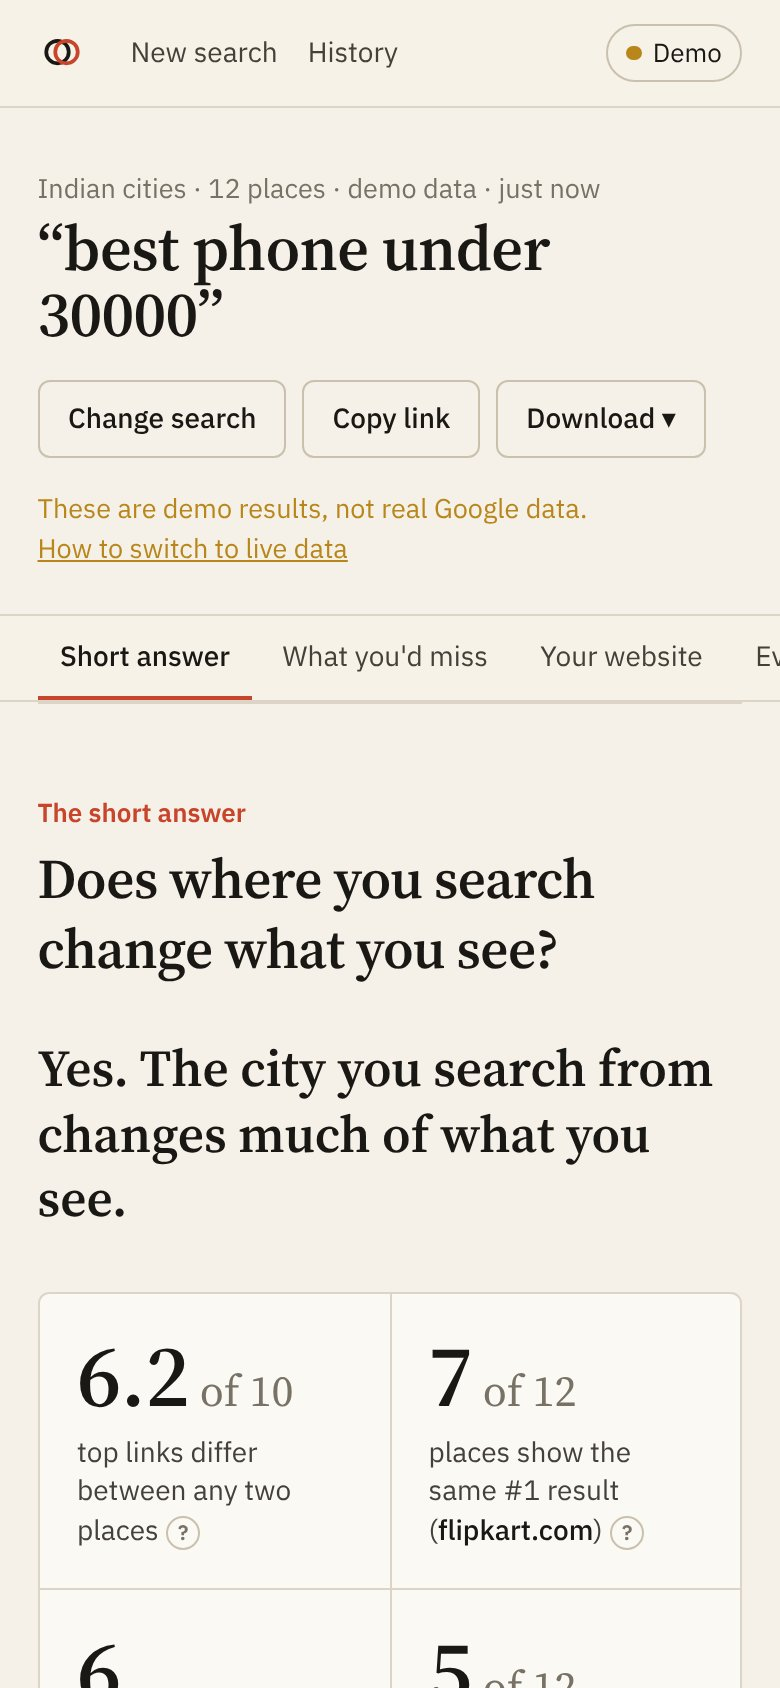
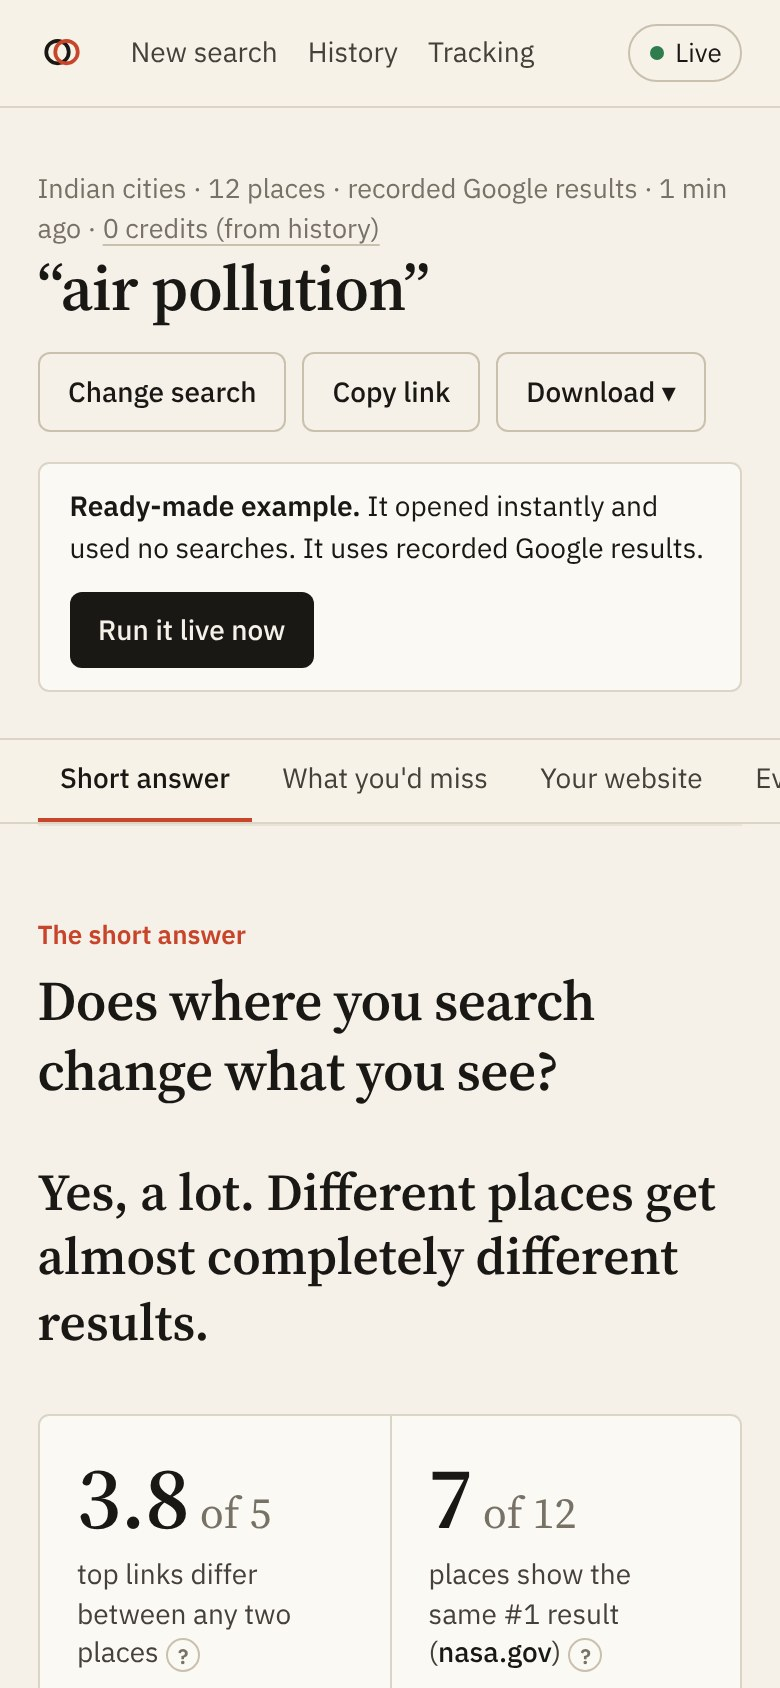
Retake README screenshots on real SerpApi data
Every screenshot except Tracking now shows real Google results: the
'air pollution' scan across 12 cities (searched live for the progress
shot), and 'is india safe for tourists' from 10 countries for the AI
answer diff. README numbers, the screenshot note, the record command and
the new PARALLAX_TIMEOUT setting are updated to match.

diff --git a/README.md b/README.md
@@ -34,7 +34,7 @@ Filter bubbles are usually discussed for social feeds. **Search is the bigger an
 ## What you get from one search
 
 **1. The short answer.** One sentence in plain English, followed by four numbers anyone can read:
-*“6.2 of 10 top links differ between any two places”*, *“7 of 12 places show the same #1 result”*, *“6 groups of places see similar pages”*, *“5 of 12 places got Google's AI answer”*. Every number has a **?** that explains it. A short written summary, generated directly from the numbers, ends with a concrete *What to do*.
+*“3.8 of 5 top links differ between any two places”*, *“7 of 12 places show the same #1 result”*, *“3 groups of places see similar pages”*, *“12 of 12 places got Google's AI answer”*. Every number has a **?** that explains it. A short written summary, generated directly from the numbers, ends with a concrete *What to do*.
 
 ![Short answer](docs/short-answer.jpg)
 
@@ -64,7 +64,7 @@ Filter bubbles are usually discussed for social feeds. **Search is the bigger an
 
 ![AI answer diff](docs/ai-diff.jpg)
 
-**Who controls the top 3.** Every #1–#3 result across all places is counted, along with how many websites hold them. Example: *“Just 2 websites (wikipedia.org and youtube.com) hold 43% of all top-3 spots across 10 places. Half of those spots belong to 3 sites.”* The result is rated *concentrated*, *somewhat concentrated* or *spread out*, using top-2 share and the Herfindahl index.
+**Who controls the top 3.** Every #1–#3 result across all places is counted, along with how many websites hold them. Example (real results for “air pollution”): *“Just 2 websites (nasa.gov and youtube.com) hold 36% of all top-3 spots across 12 places. Half of those spots belong to 3 sites.”* The result is rated *concentrated*, *somewhat concentrated* or *spread out*, using top-2 share and the Herfindahl index.
 
 ![Concentration](docs/concentration.jpg)
 
@@ -72,9 +72,9 @@ Filter bubbles are usually discussed for social feeds. **Search is the bigger an
 
 <img src="docs/receipt.jpg" width="420" alt="Cost and cache receipt" />
 
-**One-click sharing.** Under the AI answer diff and the top-3 finding there's a *Share this finding* row: post to X, share on LinkedIn, copy, or use the phone's share sheet. The text is written for you, for example *“Just 2 websites (wikipedia.org and youtube.com) hold 43% of Google's top-3 spots for ‘air pollution’ across 12 places. Explored with Parallax + @SerpApi #BuiltWithSerpApi”*. Findings from demo data are tagged “[sample data]” so made-up numbers never travel as real ones.
+**One-click sharing.** Under the AI answer diff and the top-3 finding there's a *Share this finding* row: post to X, share on LinkedIn, copy, or use the phone's share sheet. The text is written for you, for example *“Just 2 websites (nasa.gov and youtube.com) hold 36% of Google's top-3 spots for ‘air pollution’ across 12 places. Explored with Parallax + @SerpApi #BuiltWithSerpApi”*. Findings from demo data are tagged “[sample data]” so made-up numbers never travel as real ones.
 
-**Zero-friction start.** On first run Parallax builds six ready-made examples, so the start page shows the most divided one before you type anything. **🎲 Surprise me** opens one of the most divided examples instantly, at no cost. The examples are built from recorded SerpApi responses when you've recorded them (`python -m parallax.record "<query>"`, then `python -m parallax.examples`), and otherwise from labelled sample data.
+**Zero-friction start.** On first run Parallax builds six ready-made examples, so the start page shows the most divided one before you type anything. **🎲 Surprise me** opens one of the most divided examples instantly, at no cost. The examples are built from recorded SerpApi responses when you've recorded them (`python -m parallax record "<query>" --lens <lens>`, then `python -m parallax examples`), and otherwise from labelled sample data. Four of the six ship with real recorded Google results (one per lens, plus “air pollution”).
 
 ### Track a search over time
 
@@ -103,7 +103,7 @@ Runs happen while Parallax is running, and a missed run happens on the next star
 |---|---|---|---|
 | ![](docs/searching.jpg) | ![](docs/history.jpg) | ![](docs/share-card.jpg) | ![](docs/mobile.jpg) |
 
-<sub>Screenshots were taken in offline demo mode (synthetic sample data). With a SerpApi key every number comes from live Google results.</sub>
+<sub>Screenshots show real Google results fetched through SerpApi in October 2026 (“air pollution” across 12 cities, and “is india safe for tourists” from 10 countries for the AI answer diff). The Tracking screenshot uses the built-in sample history, since real tracking needs several days of runs.</sub>
 
 ### Three ways to compare
 
@@ -229,11 +229,12 @@ Every line is a real startup check: missing keys show as warnings, and broken se
 | `SERPAPI_API_KEY` | for live data | Free key at [serpapi.com](https://serpapi.com/users/sign_up), 250 searches/month |
 | `PARALLAX_CACHE_TTL` | optional | Seconds to reuse a cached SerpApi response (default 21600) |
 | `PARALLAX_RECORD` | optional | `1` = also save responses to `backend/fixtures/` for offline demos |
+| `PARALLAX_TIMEOUT` | optional | Seconds to wait for one SerpApi response (default 120). Slow or failed calls are retried up to twice; a place that still fails is shown as failed and the comparison uses the rest |
 
 **No key? It still runs.** Without `SERPAPI_API_KEY`, PARALLAX switches to **demo mode** with clearly labelled synthetic sample data, so you can explore the whole interface. To demo on *real* data offline, record a scan once:
 
 ```bash
-cd backend && ../.venv/bin/python -m parallax.record "is ayurveda effective" --lens cities
+cd backend && ../.venv/bin/python -m parallax record "is ayurveda effective" --lens languages
 ```
 
 Recorded fixtures are then replayed whenever the key is absent.
